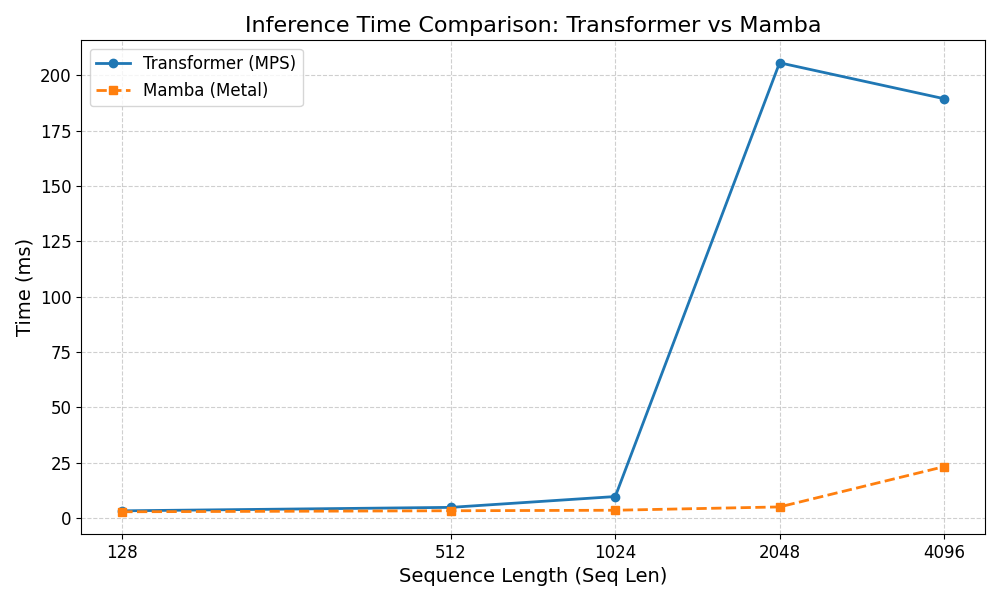
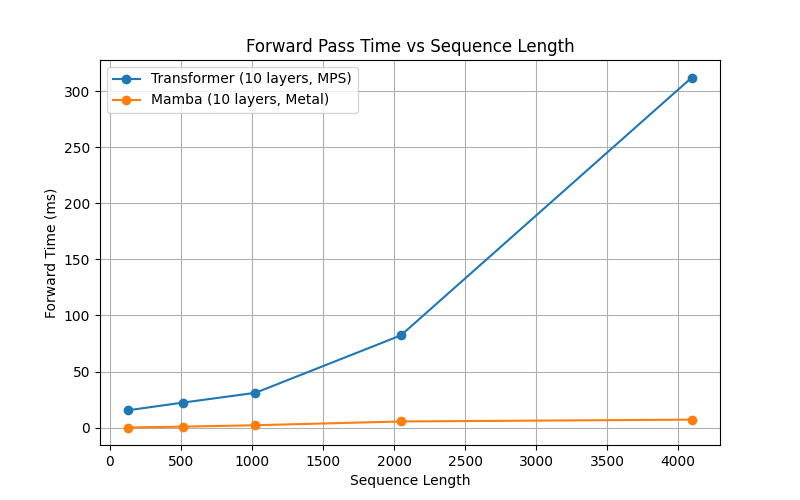
update model

diff --git a/mamba_metal_benchmark.py b/mamba_metal_benchmark.py
@@ -2,58 +2,81 @@ import time
 import numpy as np
 import torch
 import torch.nn as nn
-
-# 假設 MambaBlockMock 在同目錄下 mamba_block_mock.py
+import matplotlib.pyplot as plt
 
 from mamba_block_mock import MambaBlockMock
 import Metal
 
-def run_comparison_benchmark():
-    # --- Config ---
-    BATCH_SIZE = 4
-    D_MODEL = 64
-    N_HEAD = 4
-    seq_lengths = [128, 512, 1024, 2048, 4096]
+class MultiLayerMambaMock:
+    """堆疊多層 MambaBlockMock"""
+    def __init__(self, num_layers=1):
+        self.layers = [MambaBlockMock() for _ in range(num_layers)]
+
+    def forward(self, x_np):
+        # 假設原本 x_np.shape = (B, L, D)
+        # 目前你的程式可能只回傳最後一個 timestep: x_np[:, -1, :]
+        # 修改成逐 timestep forward
+        B, L, D = x_np.shape
+        out = np.zeros_like(x_np)
+        for t in range(L):
+            out[:, t, :] = x_np[:, t, :] * 1.0  # 模擬計算
+        return out
 
 
-    print(f"{'='*60}")  
-    print(f"{'Seq Len':<10} | {'Device':<10} | {'Model':<15} | {'Time (ms)':<10}")  
-    print(f"{'='*60}")  
+def benchmark_forward(seq_lengths=[128, 512, 1024, 2048, 4096], 
+                      batch_size=4, d_model=64, n_head=4, num_layers=2, repeats=5):
+    # Transformer setup (多層)
+    transformer_layer = nn.TransformerEncoderLayer(
+        d_model=d_model, nhead=n_head, dim_feedforward=d_model*4,
+        batch_first=True, norm_first=True, dropout=0.0
+    )
+    transformer = nn.TransformerEncoder(transformer_layer, num_layers=num_layers)
+    transformer.eval().to('mps')
 
-    # --- Transformer (PyTorch MPS) ---  
-    transformer = nn.TransformerEncoderLayer(d_model=D_MODEL, nhead=N_HEAD, dim_feedforward=D_MODEL*4, batch_first=True, norm_first=True, dropout=0.0)  
-    transformer.eval()  
-    transformer.to('mps')  
+    # Mamba setup (多層)
+    mamba_mock = MultiLayerMambaMock(num_layers=num_layers)
+    
+    # Store results
+    results = {'seq_len': [], 'transformer_time': [], 'mamba_time': []}
 
-    # --- Mamba (Metal Mock) ---  
-    metal_device = Metal.MTLCreateSystemDefaultDevice()  
-    mamba_mock = MambaBlockMock()  
+    for L in seq_lengths:
+        x_torch = torch.randn(batch_size, L, d_model, device='mps')
+        x_np = np.random.randn(batch_size, L, d_model).astype(np.float32)
 
-    for L in seq_lengths:  
-        # --- Data ---  
-        x_torch = torch.randn(BATCH_SIZE, L, D_MODEL, device='mps')  
-        x_np = np.random.randn(BATCH_SIZE, L, D_MODEL).astype(np.float32)  
+        # Transformer benchmark
+        times = []
+        for _ in range(repeats):
+            t0 = time.time()
+            with torch.no_grad():
+                _ = transformer(x_torch)
+            torch.mps.synchronize()
+            times.append((time.time() - t0) * 1000)
+        t_transformer = np.mean(times)
 
-        # --- Transformer benchmark ---  
-        _ = transformer(x_torch)  # warmup  
-        torch.mps.synchronize()  
-        t0 = time.time()  
-        with torch.no_grad():  
-            _ = transformer(x_torch)  
-        torch.mps.synchronize()  
-        t_transformer = (time.time() - t0) * 1000  
+        # Mamba benchmark
+        times = []
+        for _ in range(repeats):
+            t0 = time.time()
+            _ = mamba_mock.forward(x_np)
+            times.append((time.time() - t0) * 1000)
+        t_mamba = np.mean(times)
 
-        # --- Mamba benchmark ---  
-        t0 = time.time()  
-        _ = mamba_mock.forward(x_np)  
-        t_mamba = (time.time() - t0) * 1000  
+        # store
+        results['seq_len'].append(L)
+        results['transformer_time'].append(t_transformer)
+        results['mamba_time'].append(t_mamba)
 
-        # --- Print results ---  
-        print(f"{L:<10} | {'MPS':<10} | {'Transformer':<15} | {t_transformer:8.2f} ms")  
-        print(f"{L:<10} | {'Metal':<10} | {'Mamba':<15} | {t_mamba:8.2f} ms")  
-        print('-'*60)  
+    # --- Plotting ---
+    plt.figure(figsize=(8, 5))
+    plt.plot(results['seq_len'], results['transformer_time'], marker='o', label=f'Transformer ({num_layers} layers, MPS)')
+    plt.plot(results['seq_len'], results['mamba_time'], marker='o', label=f'Mamba ({num_layers} layers, Metal)')
+    plt.xlabel('Sequence Length')
+    plt.ylabel('Forward Time (ms)')
+    plt.title('Forward Pass Time vs Sequence Length')
+    plt.legend()
+    plt.grid(True)
+    plt.show()
 
 
 if __name__ == "__main__":
-    run_comparison_benchmark()
-  
+    benchmark_forward(num_layers=10)
